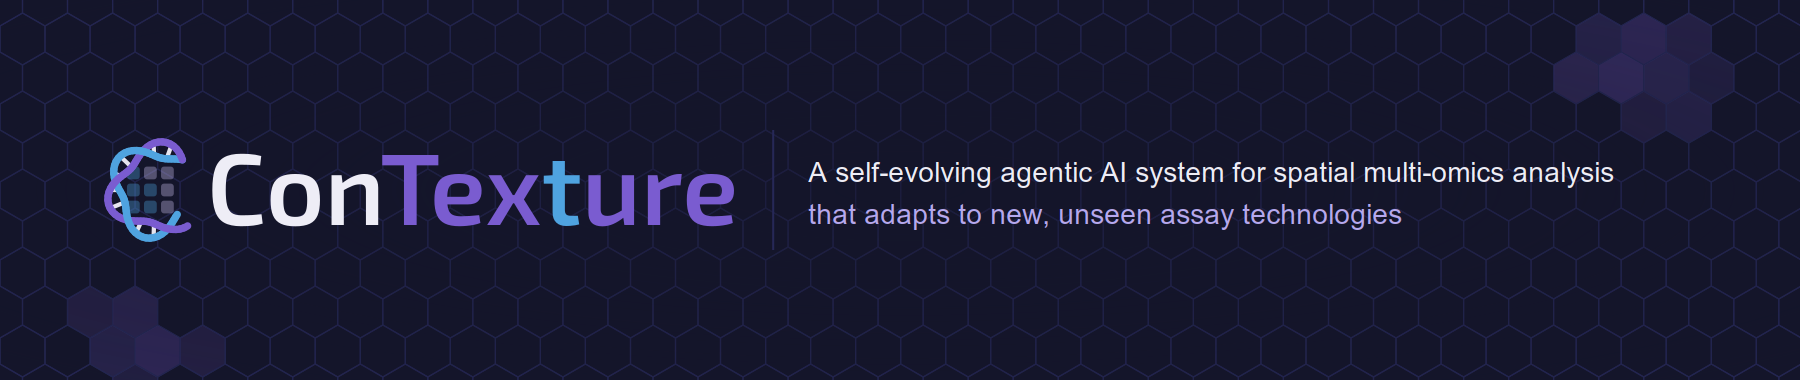
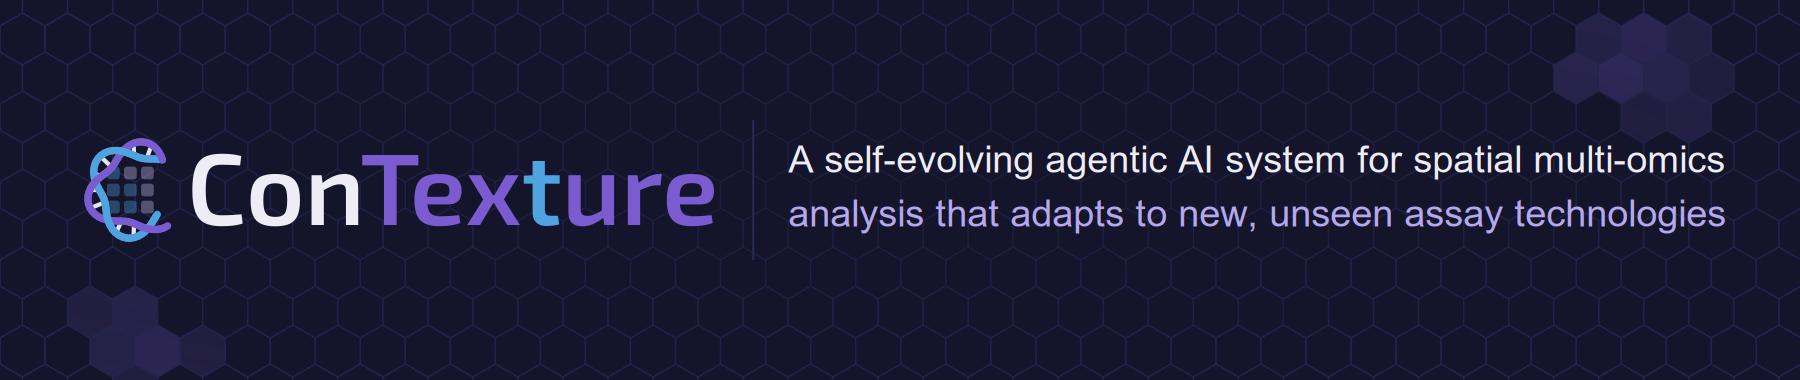
readme fix

Changed region(s): [[0.0311, 0.3474, 0.9644, 0.6368]]

diff --git a/docs/make_banner.py b/docs/make_banner.py
@@ -1,5 +1,5 @@
 """GitHub banner (docs/banner.png): the page's dark honeycomb background, the logo, and the one-line
-description. Rebuild with the cluster miniconda python (needs cairosvg): python docs/make_banner.py"""
+description (38 px text since 2026-11-03, was 28). Rebuild with the cluster miniconda python (needs cairosvg): python docs/make_banner.py"""
 import math, re, sys, cairosvg
 LOGO = __import__("os").path.join(__import__("os").path.dirname(__file__), "..", "contexture", "webui", "static", "logo_dark.svg")
 BG, LINE, PATCH = "#14152a", "#262857", "#7a5cd0"
@@ -32,16 +32,16 @@ def banner(layout, out, W=1800, H=380, R=26):
     P = patch([(35,1),(36,1),(37,1),(35,2),(36,2),(37,2),(36,3),(37,3),(38,2)], [.22,.3,.2,.28,.35,.26,.18,.22,.16]) + \
         patch([(2,8),(3,8),(2,9),(3,9),(4,9),(3,10)], [.18,.24,.22,.3,.18,.16])
     grid = hexes(W, H, R, P)
-    text = ("A self-evolving agentic AI system for spatial multi-omics analysis",
-            "that adapts to new, unseen assay technologies")
+    text = ("A self-evolving agentic AI system for spatial multi-omics",
+            "analysis that adapts to new, unseen assay technologies")
     if layout == "side":
         lh = 112; sc = lh / 108; lw = 615.4 * sc
-        x0 = 100; y0 = (H - lh) / 2
+        x0 = 80; y0 = (H - lh) / 2
         body = f'<g transform="translate({x0},{y0}) scale({sc})">{logo_inner()}</g>'
         tx = x0 + lw + 70
-        body += f'<line x1="{tx-35}" y1="{H/2-60}" x2="{tx-35}" y2="{H/2+60}" stroke="{LINE}" stroke-width="2"/>'
-        body += f'<text x="{tx}" y="{H/2-8}" font-family="Arial" font-size="28" fill="{TEXT1}">{text[0]}</text>'
-        body += f'<text x="{tx}" y="{H/2+34}" font-family="Arial" font-size="28" fill="{TEXT2}">{text[1]}</text>'
+        body += f'<line x1="{tx-35}" y1="{H/2-70}" x2="{tx-35}" y2="{H/2+70}" stroke="{LINE}" stroke-width="2"/>'
+        body += f'<text x="{tx}" y="{H/2-17.5}" font-family="Arial" font-size="38" fill="{TEXT1}">{text[0]}</text>'
+        body += f'<text x="{tx}" y="{H/2+36.5}" font-family="Arial" font-size="38" fill="{TEXT2}">{text[1]}</text>'
     else:  # stacked, centred
         lh = 130; sc = lh / 108; lw = 615.4 * sc
         body = f'<g transform="translate({(W-lw)/2},{70}) scale({sc})">{logo_inner()}</g>'
